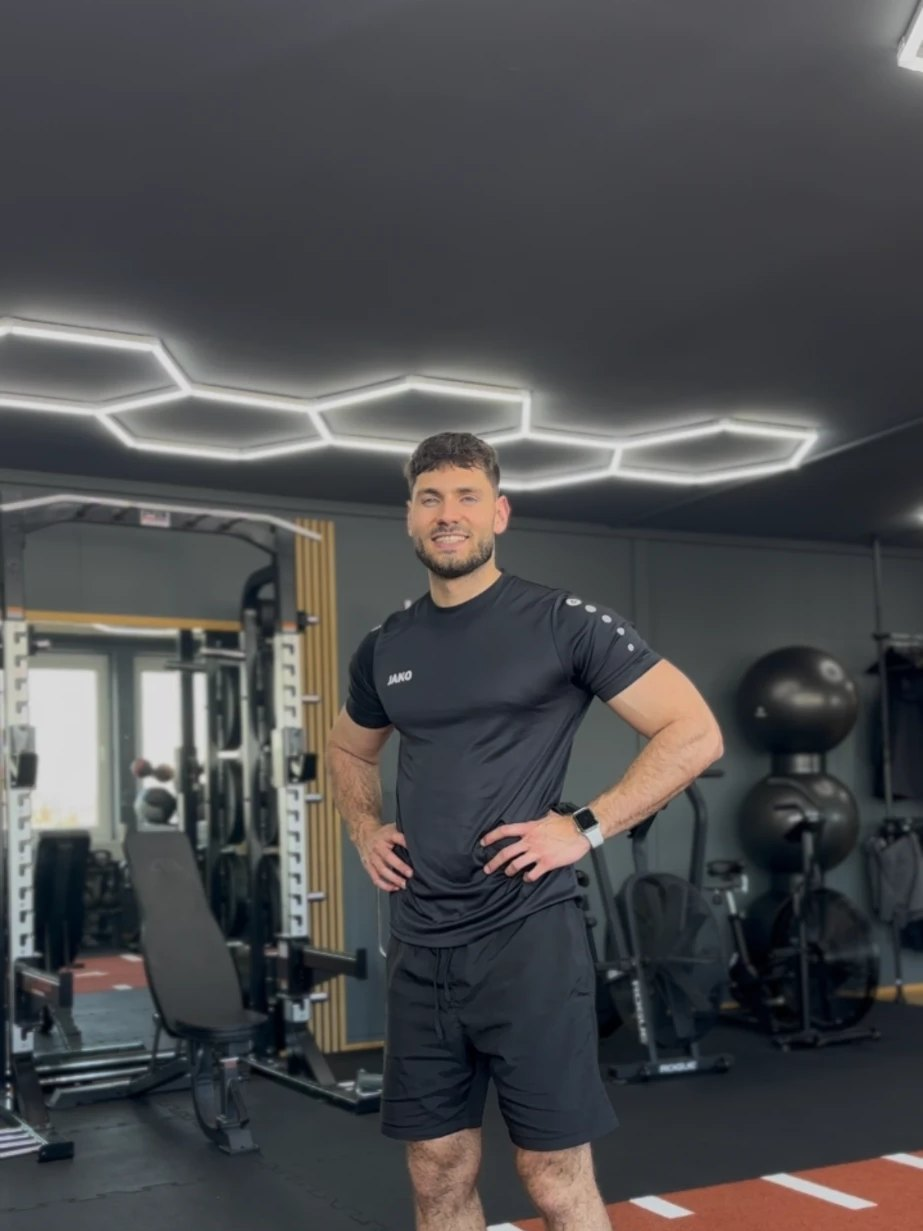
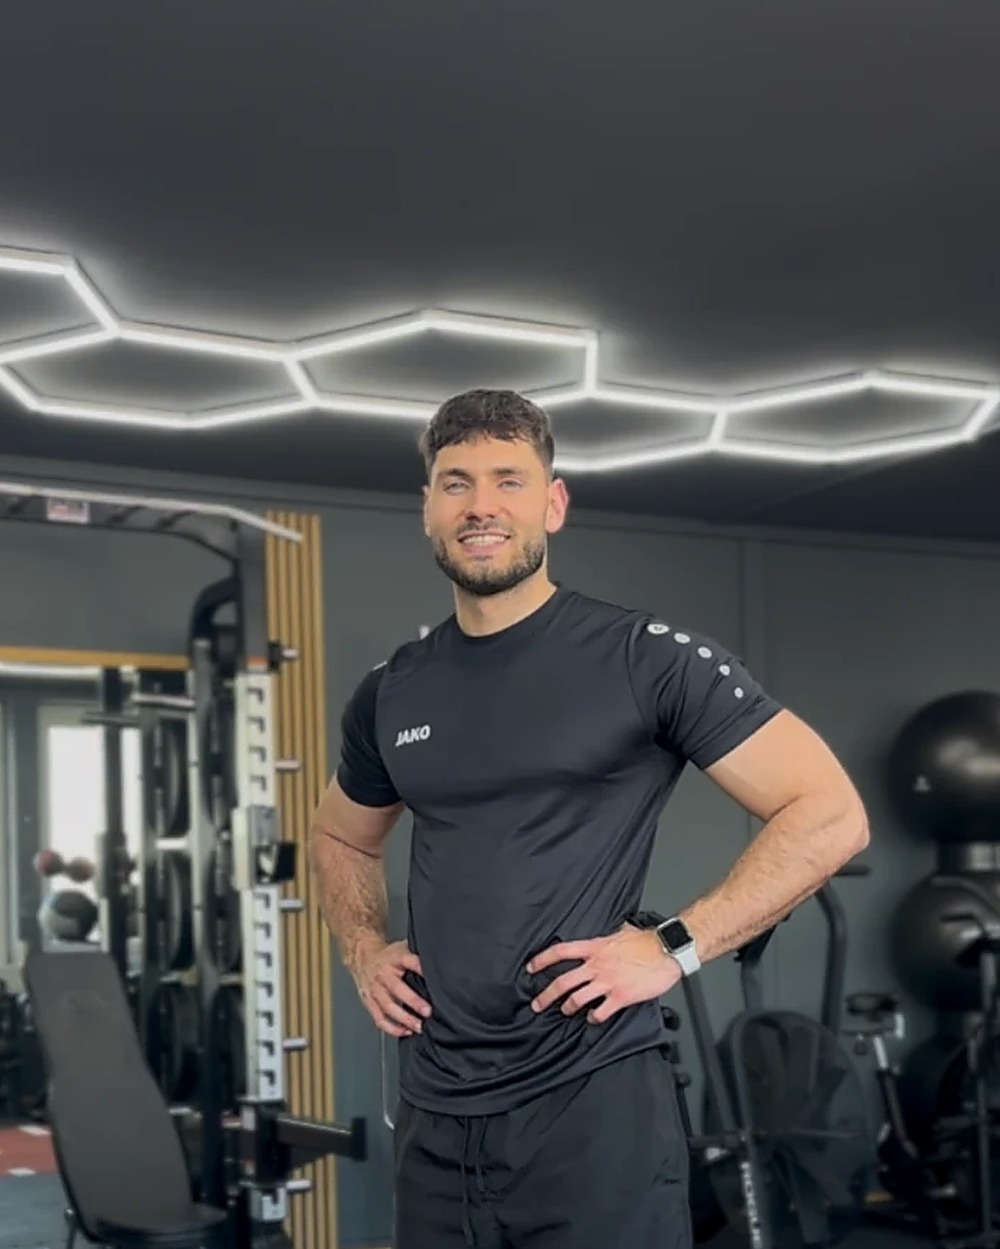
Rework the photography after review
The cut-out read oddly as the hero, so the bright studio shot takes that
slot in a normal frame. The full-body studio picture is cropped just below
the hip — legs out of frame — then upscaled and sharpened, since the
original is a phone screenshot and was the softest of the set. The outdoor
portrait shrinks: its column is narrower and capped at 300 px.

The phases panel loses its picture entirely. No photograph crops to 16:10
without cutting Aaron off, and an obviously chopped image reads worse than
none; the panel is single-column now and the text runs wider.

Claude-Session: https://claude.ai/code/session_01X9ucmw29y3B6YrVRvm8FdK

diff --git a/styles.css b/styles.css
@@ -229,7 +229,7 @@ section[id],main[id]{scroll-margin-top:86px}
 .phase:hover{border-color:var(--blue);transform:translateY(-3px)}
 .phase.is-active{background:var(--blue);border-color:var(--blue)}
 .phase.is-active .phase-n{color:rgba(46,46,46,.62)}
-.timeline-panel{display:grid;grid-template-columns:1.05fr .95fr;gap:clamp(1.5rem,4vw,3rem);
+.timeline-panel{display:grid;gap:clamp(1.5rem,4vw,3rem);
   align-items:center;background:var(--paper);border:1px solid var(--line-soft);
   border-radius:var(--r);padding:clamp(1.6rem,3vw,2.6rem)}
 .panel-body{transition:opacity .28s var(--ease),transform .28s var(--ease)}
@@ -237,7 +237,7 @@ section[id],main[id]{scroll-margin-top:86px}
 .panel-n{font-family:var(--display);font-size:.78rem;font-weight:700;letter-spacing:.16em;
   text-transform:uppercase;color:var(--blue-deep);margin-bottom:.5rem}
 .panel-body h3{font-size:1.65rem}
-.panel-body>p:last-child{margin-top:.9rem;min-height:6.2em}
+.panel-body>p:last-child{margin-top:.9rem;min-height:4.8em;max-width:70ch}
 
 /* ---------- Stimmen ---------- */
 .quotes{display:grid;grid-template-columns:repeat(4,1fr);gap:1.2rem;align-items:stretch}
@@ -254,8 +254,8 @@ section[id],main[id]{scroll-margin-top:86px}
 .quote footer .q-stars svg{width:12px;height:12px;fill:var(--blue)}
 
 /* ---------- Split / Coach ---------- */
-.split{display:grid;grid-template-columns:.72fr 1.28fr;gap:clamp(2rem,5vw,4.5rem);align-items:center}
-.split figure{margin:0}
+.split{display:grid;grid-template-columns:.52fr 1.48fr;gap:clamp(2rem,5vw,4.5rem);align-items:center}
+.split figure{margin:0;max-width:300px}
 .split p{margin-top:1.1rem}
 .chips{list-style:none;display:flex;flex-wrap:wrap;gap:.5rem;margin-top:1.9rem}
 .chips li{font-size:.83rem;padding:.4rem .9rem;border-radius:999px;border:1px solid var(--line);color:var(--ink-mid)}
@@ -329,7 +329,7 @@ section[id],main[id]{scroll-margin-top:86px}
 
 /* ---------- Responsive ---------- */
 @media (max-width:980px){
-  .two-col,.split,.timeline-panel{grid-template-columns:1fr}
+  .two-col,.split{grid-template-columns:1fr}
   .tiles,.perks{grid-template-columns:repeat(2,1fr)}
   .quotes{grid-template-columns:repeat(2,1fr)}
   .col-sticky{position:static}
@@ -359,7 +359,7 @@ section[id],main[id]{scroll-margin-top:86px}
   .media-frame::after{font-size:.74rem}
 
   .hero{grid-template-columns:1fr;padding-top:2rem}
-  .hero-media{max-width:320px;margin-top:.5rem}
+  .hero-media{max-width:300px;margin-top:.5rem}
   .nav{flex-wrap:wrap;row-gap:.65rem}
   .nav-links{order:3;width:100%;gap:1.35rem;overflow-x:auto;scrollbar-width:none;font-size:.88rem;padding-bottom:.15rem}
   .nav-links::-webkit-scrollbar{display:none}
@@ -462,14 +462,8 @@ section[id],main[id]{scroll-margin-top:86px}
 .quotes-cta{margin-top:1.8rem}
 
 /* ---------- Fotos ---------- */
-/* Hero: Freisteller ohne Rahmen — steht frei im Weissraum */
-.hero-cutout{width:100%;height:auto;max-width:330px;margin-inline:auto;
-  filter:drop-shadow(0 26px 40px rgba(46,46,46,.16))}
-.media-tall{aspect-ratio:3/4}
 .goal-media{margin:2rem 0 0}
 @media (max-width:980px){
-  .goal-media{max-width:300px}
+  .goal-media{max-width:280px}
 }
-@media (max-width:820px){
-  .hero-media{max-width:260px}
-}
+

diff --git a/index.html b/index.html
@@ -61,8 +61,10 @@
     </div>
 
     <figure class="hero-media reveal">
-      <img src="img/aaron-hero.png" alt="Aaron Hannig, Personal Coach" class="hero-cutout"
-           width="764" height="1205" fetchpriority="high" />
+      <div class="media-frame">
+        <img src="img/aaron-hero.jpg" alt="Aaron Hannig, Personal Coach"
+             width="1400" height="1750" fetchpriority="high" />
+      </div>
     </figure>
 
     <dl class="stats reveal">
@@ -87,9 +89,9 @@
         <p class="sub">Nicht die perfekte Woche. Sondern Veränderungen, die auch dann noch stehen, wenn das Coaching längst vorbei ist.</p>
         <a href="https://calendly.com/personalcoach-aaron/dein-kostenloses-erstgesprach" target="_blank" rel="noopener" class="btn magnetic">Kostenloses Erstgespräch</a>
         <figure class="goal-media">
-          <div class="media-frame media-tall">
+          <div class="media-frame">
             <img src="img/aaron-gym.jpg" alt="Aaron Hannig im Studio" loading="lazy"
-                 width="923" height="1231" />
+                 width="1000" height="1249" />
           </div>
         </figure>
       </div>
@@ -145,12 +147,6 @@
           <p class="panel-n" id="phase-n">Phase 1</p>
           <h3 id="phase-title"></h3>
           <p id="phase-text"></p>
-        </div>
-        <div class="panel-media">
-          <div class="media-frame media-wide">
-            <img src="img/coaching-wide.jpg" alt="Aaron Hannig im Studio" loading="lazy"
-                 width="1600" height="1000" />
-          </div>
         </div>
       </div>
     </div>
@@ -220,7 +216,7 @@
       <figure class="reveal">
         <div class="media-frame">
           <img src="img/aaron-portrait.jpg" alt="Aaron Hannig" loading="lazy"
-               width="1333" height="1666" />
+               width="1100" height="1375" />
         </div>
       </figure>
       <div class="reveal">

diff --git a/CLAUDE.md b/CLAUDE.md
@@ -36,10 +36,12 @@ Alle unter `img/`, aus den Originalen zugeschnitten:
 
 | Datei | Format | Ort |
 |---|---|---|
-| `aaron-hero.png` | 4:5, transparent | Hero, ohne Rahmen |
-| `aaron-gym.jpg` | 3:4 | Ziele-Abschnitt |
-| `coaching-wide.jpg` | 16:10 | Ablauf-Abschnitt |
-| `aaron-portrait.jpg` | 4:5 | Coach-Abschnitt |
+| `aaron-hero.jpg` | 4:5 | Hero |
+| `aaron-gym.jpg` | 4:5, bis knapp unter die Hüfte | Ziele-Abschnitt |
+| `aaron-portrait.jpg` | 4:5 | Coach-Abschnitt, schmale Spalte |
+
+Der Ablauf-Abschnitt hat bewusst kein Bild: kein vorhandenes Foto lässt sich
+ins Querformat schneiden, ohne Aaron anzuschneiden.
 
 Logo-Dateien (`logo.png`, `logo-mark.png`, `favicon.png`) werden aus
 `pca logo .png` freigestellt.
